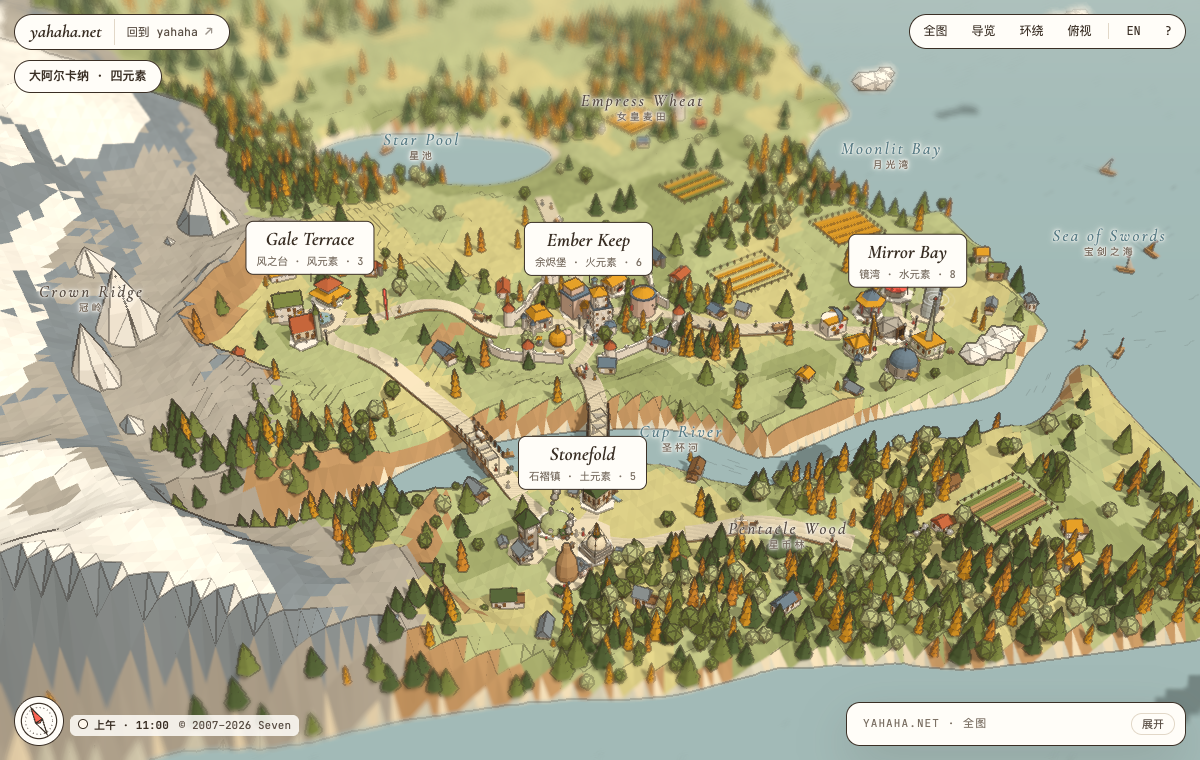
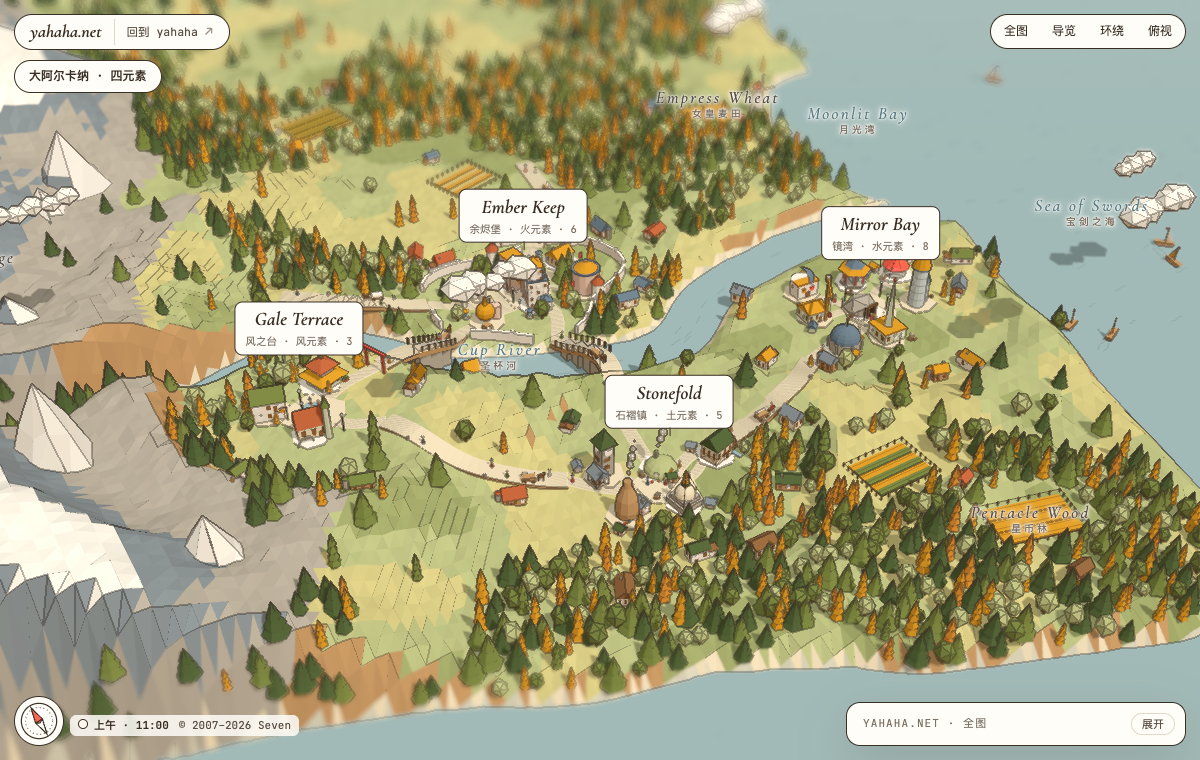
feat: keep the land still when towns gain or lose buildings
Towns used to be placed at their real size, so a town crossing the
2/4/6/9 building steps changed the whole generated layout. world.townSize
now defaults to "fixed": every town is laid out at full size and its
outline is seeded from its position, so editing a town's contents never
moves coasts, rivers, roads or other towns. "fit" keeps the old,
tighter behaviour. The classic layout is unaffected.

The schema and SKILL.md explain when a generated world changes and ask
for the chosen seed to be written into site.json.

diff --git a/skills/site-to-map/engine/map-engine.js b/skills/site-to-map/engine/map-engine.js
@@ -46,12 +46,16 @@ const WCFG = { ...(SITE.world || {}) };
 { const q = new URLSearchParams(location.search); if (q.get('seed')) WCFG.seed = strSeed(q.get('seed')); if (q.get('world')) { WCFG.type = q.get('world'); if (WCFG.layout === 'classic') WCFG.layout = 'auto'; } if (q.get('seed') && WCFG.layout === 'classic') WCFG.layout = 'auto'; }
 if (WCFG.seed == null) WCFG.seed = strSeed((SITE.site?.brand || '') + '|' + CITIES.map(c => c.id).join(','));
 else if (typeof WCFG.seed === 'string') WCFG.seed = strSeed(WCFG.seed);
-const WORLD = makeWorld(WCFG, CITIES.map(c => ({ slot: c.slot, rx: c.W / 2 + .95, rz: c.H / 2 + .95 })), { vnoise, fbm: (x, y) => fbm(x, y), ridge: (x, z) => ridge(x, z) });
+// townSize "fixed" (default): lay towns out as if each held nine buildings, so adding or
+// removing buildings never moves the land; "fit": use each town's real size (tighter, but the
+// layout shifts when a town crosses 2/4/6/9 buildings). classic ignores it.
+const FIXED_SIZE = WCFG.layout !== 'classic' && WCFG.townSize !== 'fit';
+const WORLD = makeWorld(WCFG, CITIES.map(c => FIXED_SIZE ? { slot: c.slot, rx: 7 / 2 + .95, rz: 7 / 2 + .95 } : { slot: c.slot, rx: c.W / 2 + .95, rz: c.H / 2 + .95 }), { vnoise, fbm: (x, y) => fbm(x, y), ridge: (x, z) => ridge(x, z) });
 CITIES.forEach((c, i) => { const P = WORLD.townPos[i]; c.cx = P.cx; c.cz = P.cz; c.y = P.y; c.gate = !!P.gate; c.harbor = !!P.harbor;
   c.ox = c.cx + CENTER.x - c.W / 2; c.oy = c.cz + CENTER.z - c.H / 2; });
 const SP = 2.15;
 for (const c of CITIES) {
-  c.ph = hash(c.ox + 40, c.oy + 40) * 6.28; c.ang = (hash(c.oy + 9, c.ox + 9) - .5) * .7;
+  { const sx = FIXED_SIZE ? Math.round(c.cx * 10) : c.ox, sz = FIXED_SIZE ? Math.round(c.cz * 10) : c.oy; c.ph = hash(sx + 40, sz + 40) * 6.28; c.ang = (hash(sz + 9, sx + 9) - .5) * .7; }
   c.rx = c.W / 2 + .95; c.rz = c.H / 2 + .95; c.slots = [];
   const ca = Math.cos(c.ang), sa = Math.sin(c.ang);
   for (let k = 0; k < c.cols * c.rows; k++) {

diff --git a/skills/site-to-map/references/site-schema.md b/skills/site-to-map/references/site-schema.md
@@ -9,7 +9,10 @@ the browser language picks from what each field has, so plain strings are enough
   "world": {                           // optional; omit for a generated world seeded from the site
     "layout": "auto",                  // auto (generated) | classic (the fixed yahaha.net continent)
     "seed": "any string or number",    // default: brand + town ids, so each site gets its own land
-    "type": "coast"                    // coast | twoCoasts | island | gulf | lakeland; omit to let the seed pick
+    "type": "coast"                    // coast | twoCoasts | island | gulf | lakeland; omit to let the seed pick,
+    "townSize": "fixed"                // fixed (default): towns laid out at full size, so adding or removing
+                                       // buildings never moves the land | fit: real sizes, tighter, but the
+                                       // layout shifts when a town crosses 2/4/6/9 buildings
   },
   "ui": {                              // optional interface features; defaults shown
     "languageSwitch": false,            // zh/en toggle button (and L key); off = one language only
@@ -99,5 +102,12 @@ rivers between towns, a road network (spanning tree plus extras and lanes off th
 lakes, fields, farms, woods and where boats sail. Place-name anchors follow the
 generated features; an anchor with nothing to point at (no lake, no second river) is
 skipped.
+
+**The land is fixed once generated.** The same `site.json` gives the same world for every
+visitor on every load; only daylight and the ambient animation change. It changes when the
+seed changes (an unset seed is derived from `site.brand` and the town ids), when a town is
+added, removed or given another `slot`, with `townSize: "fit"` when a town crosses a size
+step, and possibly when the engine's generator is upgraded. Write the chosen `seed` into
+the file to keep it.
 
 Preview other worlds without editing the file: `?seed=abc`, `?world=island`, or both.

diff --git a/skills/site-to-map/SKILL.md b/skills/site-to-map/SKILL.md
@@ -54,7 +54,9 @@ Read `references/site-schema.md` before writing `site.json`, and pick building s
    `world.type` that suits the site (`coast`, `twoCoasts`, `island`, `gulf`, `lakeland`) or
    leave it to the seed. Try two or three seeds with
    `node scripts/check.mjs out/ --query "seed=foo&world=island"` and keep the one where the
-   towns read best; write it into `site.json`. `layout: "classic"` reproduces the fixed
+   towns read best; **write that seed into `site.json`** so renaming the site never
+   reshuffles the land. Keep `townSize` at its default `fixed` unless the user wants towns
+   packed tighter and accepts that adding buildings may move things (`fit`). `layout: "classic"` reproduces the fixed
    yahaha.net continent and is only for that site.
 6. **Style each town.** `style.walls` and `style.roofs` are palette tokens (see schema);
    give each town its own roof family so towns read apart, and set `features`
